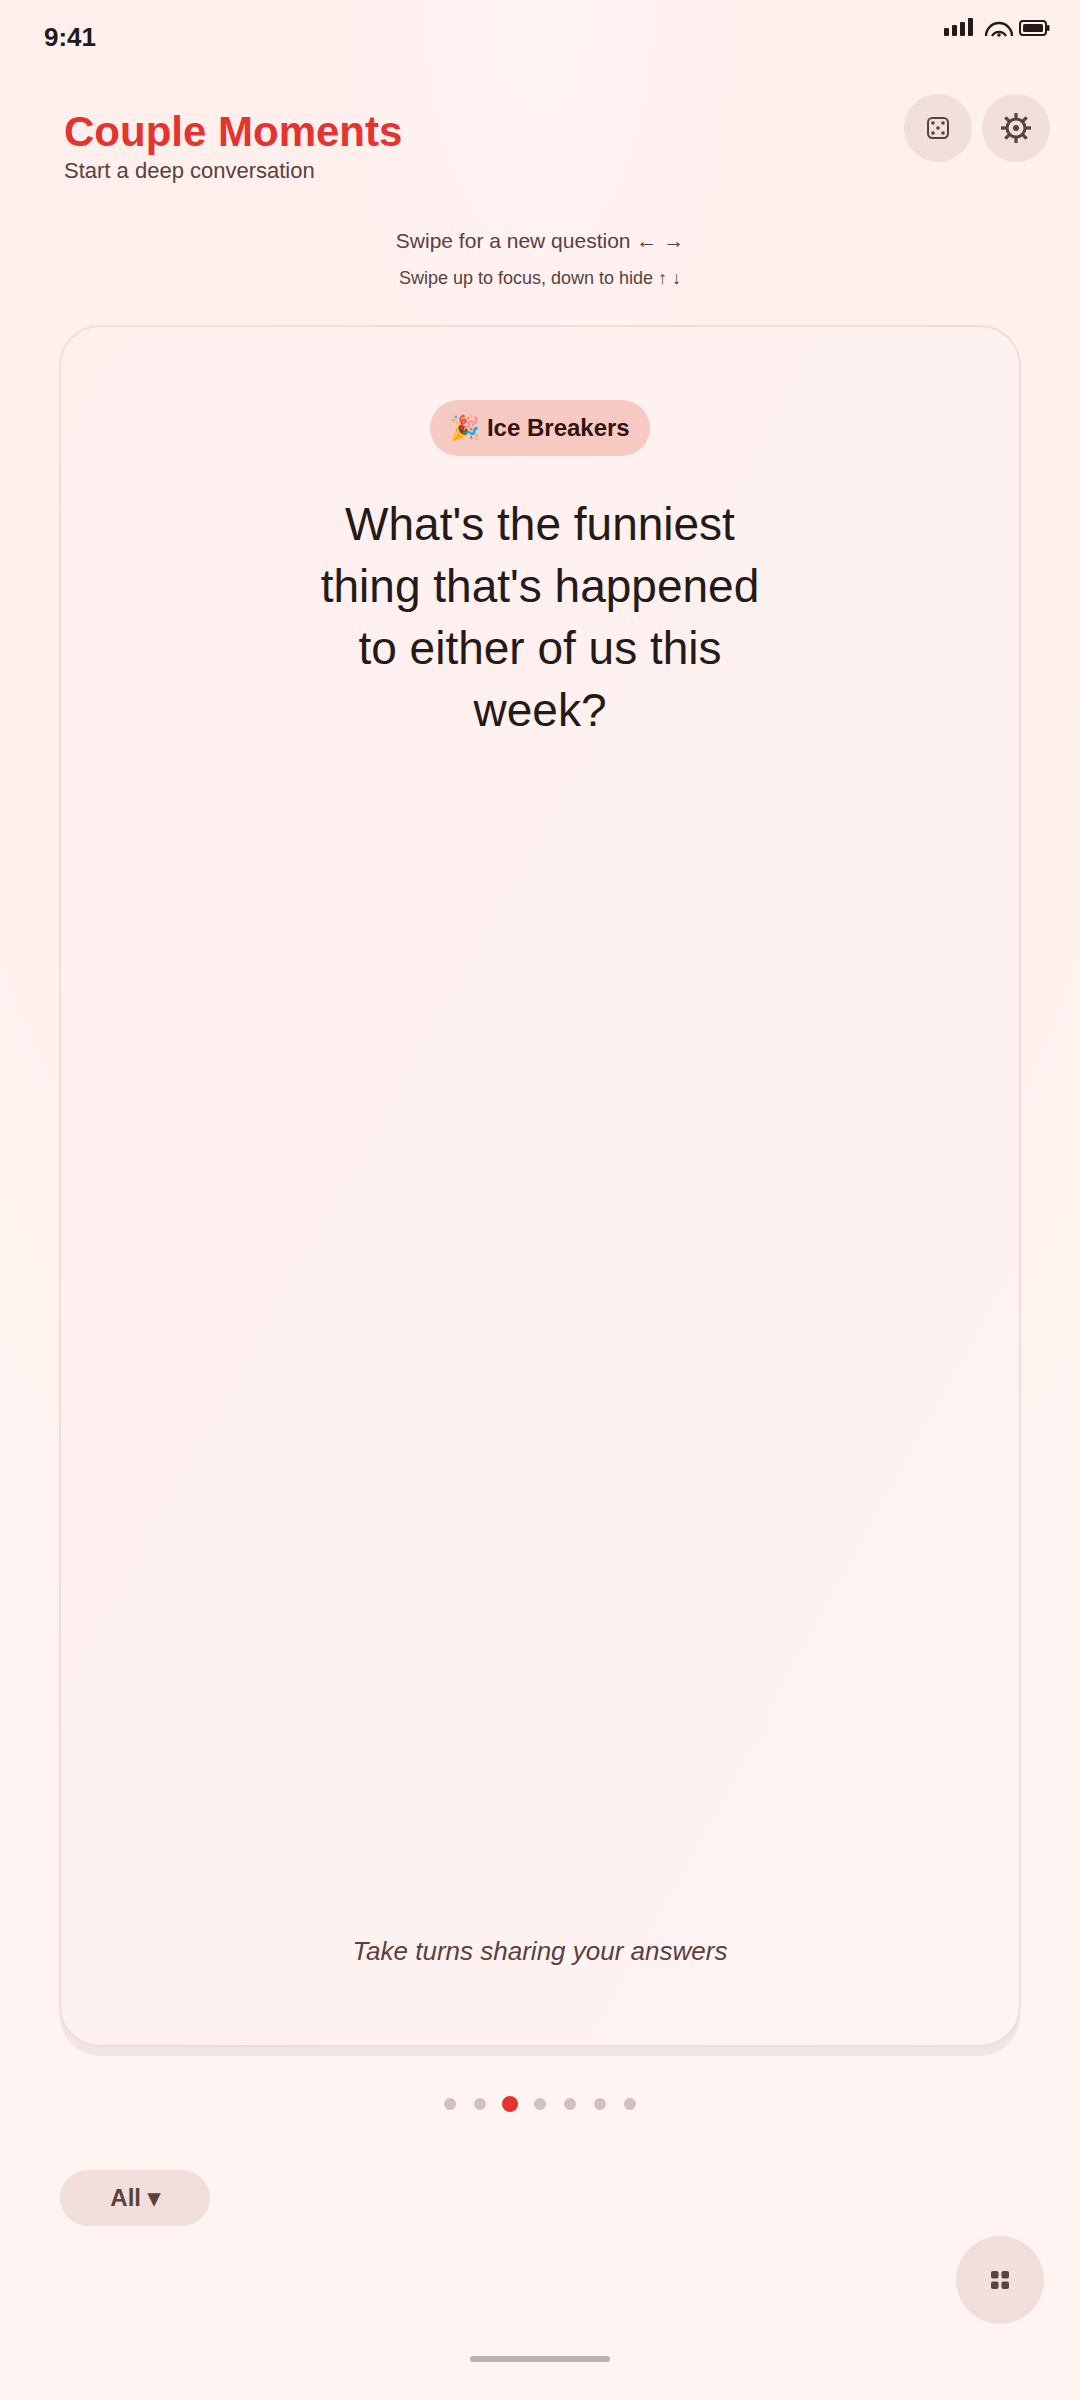
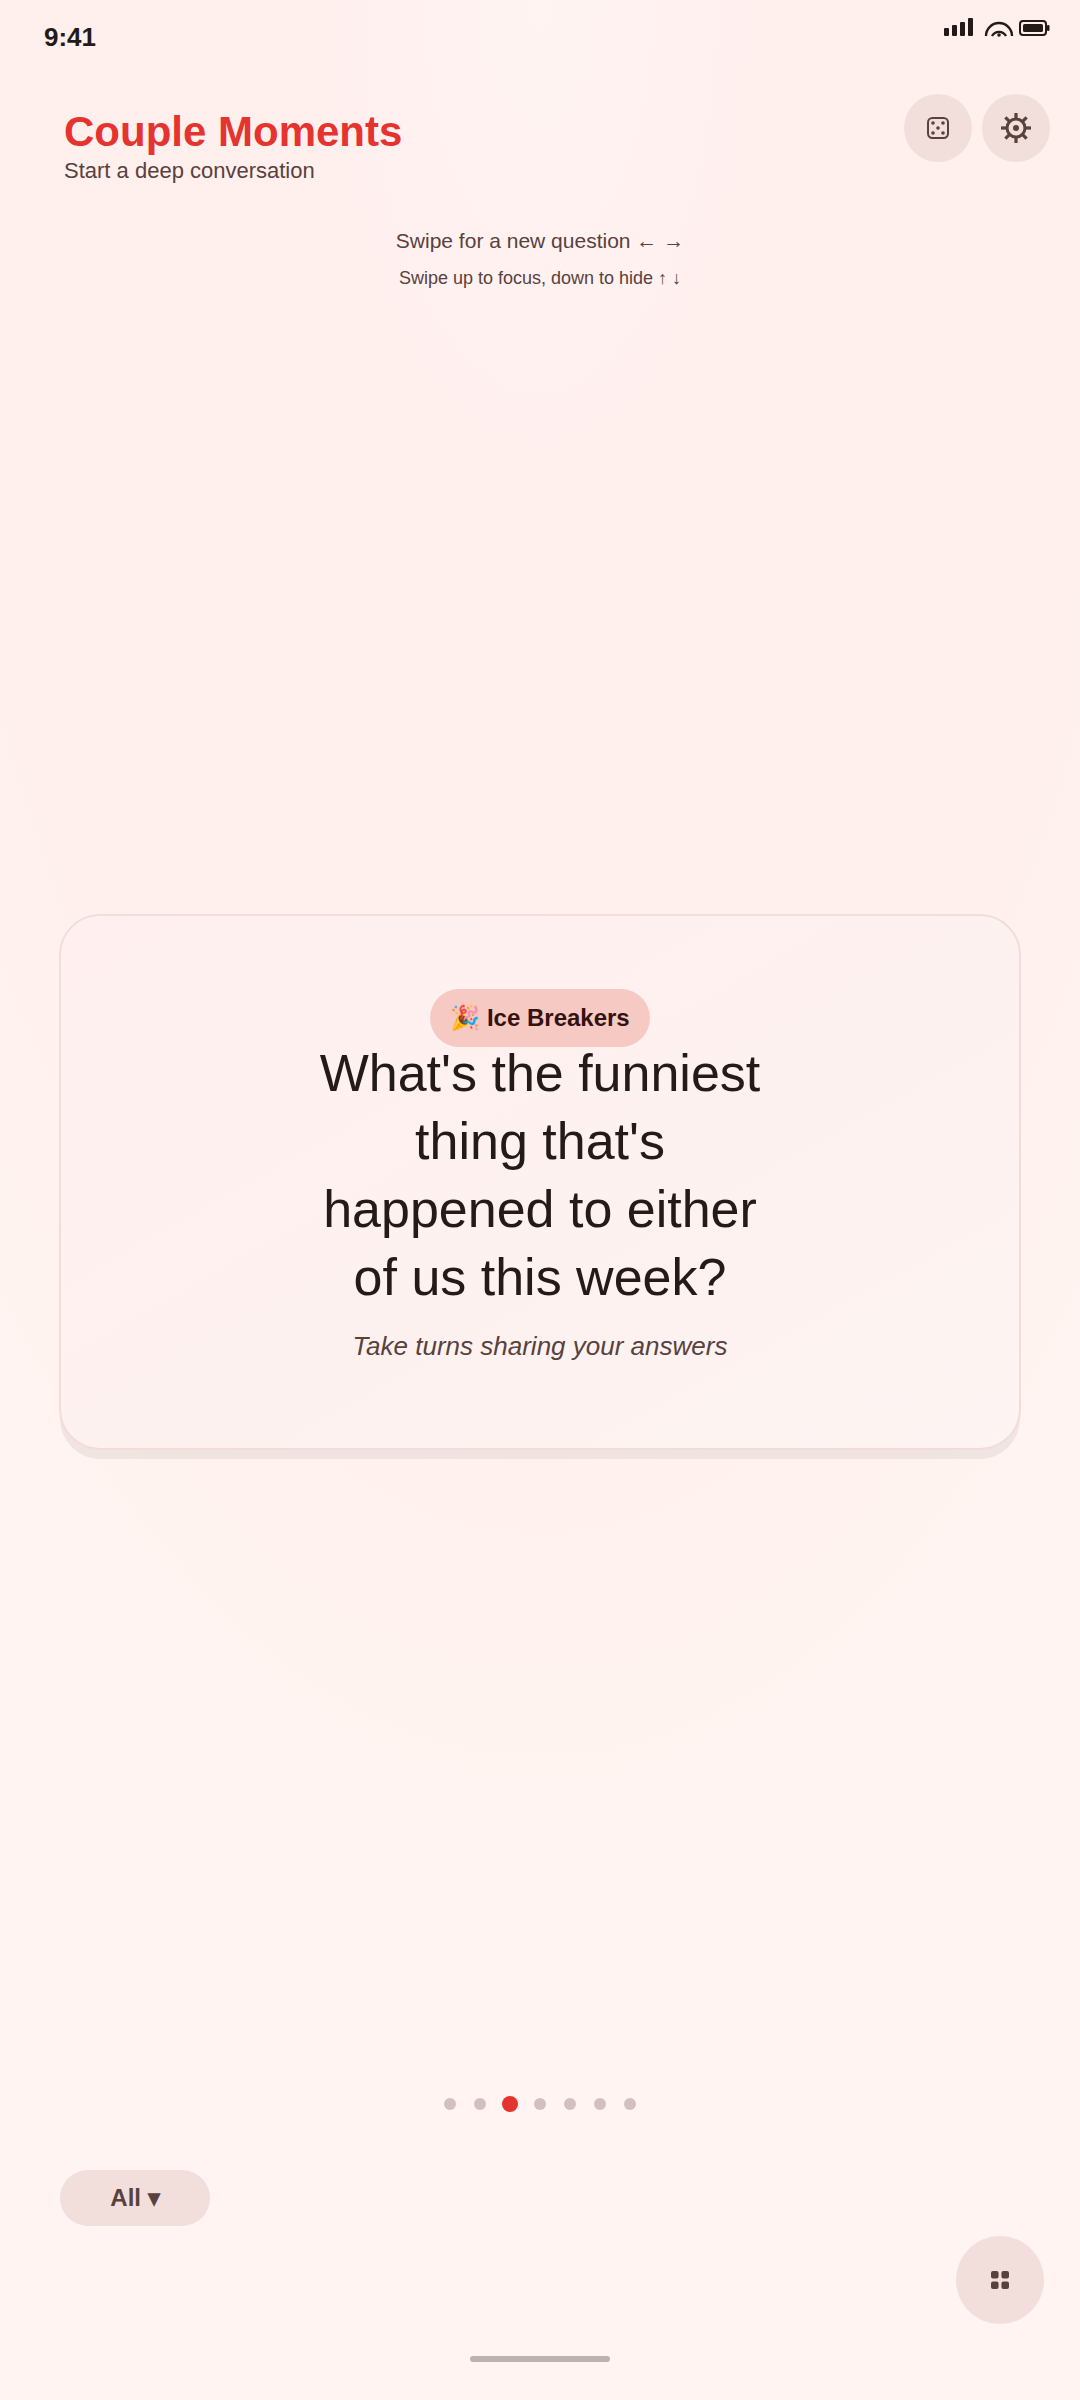
Fix Home/Grid screenshot proportions to match real Compose layout
Home: the real QuestionCard (feature/home HomeScreen.kt) only
fillMaxWidth()s, not fillMaxHeight() - the white card wraps its
content and floats centered in the space below the header, rather
than stretching to fill it. The previous version of this generator
stretched the card itself to fill the taller 1080x2400 canvas, leaving
the (fixed-size) question text as a small block lost in a mostly-empty
white card. Make the card content-sized again and center it in the
available region instead, so the text fills the card the way it does
in the real app, and let the (non-white, gradient) background show
above/below rather than an oversized blank card.

Grid: GridQuestionCard uses a fixed aspectRatio(0.75f) in the real
app - cards don't stretch taller on a bigger screen, more of them
become visible at once. Revert the artificially stretched card height
introduced by the previous resize and add a 4th row of real questions
instead, which is what the real LazyVerticalGrid would actually show
on a taller screen.

Claude-Session: https://claude.ai/code/session_01HsvnX2Jpbs3UZayHCfeFox

Changed region(s): [[0.3056, 0.4062, 0.7028, 0.5625], [0.3056, 0.1562, 0.7028, 0.3125]]

diff --git a/docs/playstore/assets/generate.py b/docs/playstore/assets/generate.py
@@ -338,8 +338,33 @@ W, H = 1080, 2400
 
 
 def gen_screenshot_home():
-    card_h = H - 680  # bottom-pinned nav below stays same distance from the bottom edge as at H=1920
+    # The real QuestionCard (feature/home HomeScreen.kt) only fillMaxWidth()s - it does NOT
+    # fillMaxHeight() - so the white card wraps its content and floats centered (Alignment.Center)
+    # inside the weight(1f) Box below the header, rather than stretching to fill it. Stretching the
+    # card itself (as an earlier version of this generator did) leaves a mostly-empty white card on
+    # a tall canvas; matching the real layout instead keeps the card content-sized and lets the
+    # (non-white, gradient) background show above/below it, which reads as intentional whitespace
+    # rather than a big blank card.
+    region_top = 300  # just below the swipe-hint text
     dots_cy = H - 296
+    region_bottom = dots_cy - 40  # just above the page-dots row
+
+    question = "What's the funniest thing that's happened to either of us this week?"
+    lines = wrap_text(question, 19)
+    font_size = 52
+    line_height = 68
+    pill_h = 58
+    gap_pill_question = 44
+    gap_question_caption = 60
+    pad_top, pad_bottom = 74, 94
+    content_extent = pill_h + gap_pill_question + (len(lines) - 1) * line_height + gap_question_caption
+    card_h = pad_top + content_extent + pad_bottom
+    card_top = (region_top + region_bottom) / 2 - card_h / 2
+
+    pill_y = card_top + pad_top
+    question_y = pill_y + pill_h + gap_pill_question
+    caption_y = question_y + (len(lines) - 1) * line_height + gap_question_caption
+
     dots = ""
     total, current = 7, 2
     for i in range(total):
@@ -349,7 +374,6 @@ def gen_screenshot_home():
         op = 1.0 if i == current else 0.4
         dots += f'<circle cx="{cx}" cy="{dots_cy}" r="{r}" fill="{fill}" opacity="{op}"/>'
 
-    question = "What's the funniest thing that's happened to either of us this week?"
     svg = f'''<svg xmlns="http://www.w3.org/2000/svg" width="{W}" height="{H}" viewBox="0 0 {W} {H}">
 <defs>
   <radialGradient id="bgGrad" cx="50%" cy="0%" r="75%">
@@ -365,15 +389,15 @@ def gen_screenshot_home():
 {status_bar(W)}
 {top_bar(W, subtitle=True)}
 
-<rect x="60" y="336" width="960" height="{card_h}" rx="40" fill="#000000" fill-opacity="0.06"/>
-<rect x="60" y="326" width="960" height="{card_h}" rx="40" fill="{WHITE}" stroke="{SURFACE_VARIANT}" stroke-width="2"/>
-<rect x="60" y="326" width="960" height="{card_h}" rx="40" fill="url(#cardTint)"/>
+<rect x="60" y="{card_top+10}" width="960" height="{card_h}" rx="40" fill="#000000" fill-opacity="0.06"/>
+<rect x="60" y="{card_top}" width="960" height="{card_h}" rx="40" fill="{WHITE}" stroke="{SURFACE_VARIANT}" stroke-width="2"/>
+<rect x="60" y="{card_top}" width="960" height="{card_h}" rx="40" fill="url(#cardTint)"/>
 
-{pill(430, 400, 220, 56, SECONDARY_CONTAINER, EMOJI_ICE + " Ice Breakers", ON_SECONDARY_CONTAINER, 24, "600", "middle")}
+{pill(430, pill_y, 220, pill_h, SECONDARY_CONTAINER, EMOJI_ICE + " Ice Breakers", ON_SECONDARY_CONTAINER, 24, "600", "middle")}
 
-{text_lines(wrap_text(question, 21), W/2, 540, 62, 46, ON_SURFACE, text_anchor="middle")}
+{text_lines(lines, W/2, question_y, line_height, font_size, ON_SURFACE, text_anchor="middle")}
 
-<text x="{W/2}" y="{H-440}" font-family="{FONT}" font-size="26" font-style="italic" fill="{ON_SURFACE_VARIANT}"
+<text x="{W/2}" y="{caption_y}" font-family="{FONT}" font-size="26" font-style="italic" fill="{ON_SURFACE_VARIANT}"
       text-anchor="middle">Take turns sharing your answers</text>
 
 {dots}
@@ -426,6 +450,9 @@ GRID_ITEMS = [
     (EMOJI_MEMORIES, "What do you remember about the moment you first realized you liked me?"),
     (EMOJI_VALUES, "How can I best support you when you're having a hard day?"),
     (EMOJI_FUTURE, "If we designed our dream home, what's one unusual feature you'd want?"),
+    (EMOJI_DAILY, "What's one small thing I did recently that made you smile?"),
+    (EMOJI_ICE, "If we could teleport anywhere right now, where would we go?"),
+    (EMOJI_MEMORIES, "What's a memory that always makes you laugh when you think about it?"),
 ]
 
 
@@ -434,9 +461,11 @@ def gen_screenshot_grid():
     gap = 22
     cols = 3
     colw = (W - 2 * margin - (cols - 1) * gap) / cols
-    # Grow the cards (rather than just the gap below them) to fill the taller canvas, keeping the
-    # same gap between the grid and the "All" pill below it as at H=1920.
-    cardh = (H - 698.7) / 3
+    # The real GridQuestionCard (feature/home HomeScreen.kt) uses a fixed aspectRatio(0.75f) -
+    # cards don't stretch taller on a bigger screen, more of them just become visible at once - so
+    # keep that ratio here too and show an extra row (GRID_ITEMS below) to fill the taller canvas.
+    cardh = colw / 0.75
+    rows = -(-len(GRID_ITEMS) // cols)  # ceil division
     cards = ""
     for i, (emoji, text) in enumerate(GRID_ITEMS):
         r, c = divmod(i, cols)
@@ -450,7 +479,7 @@ def gen_screenshot_grid():
 <text x="{x+colw-16}" y="{y+34}" font-family="{FONT}" font-size="22" text-anchor="end">{emoji}</text>
 {text_lines(lines, x+colw/2, start_y, 25, 19, ON_SURFACE, text_anchor="middle")}'''
 
-    clip_bottom = 300 + 3 * cardh + 2 * gap + 20
+    clip_bottom = 300 + rows * cardh + (rows - 1) * gap + 20
     svg = f'''<svg xmlns="http://www.w3.org/2000/svg" width="{W}" height="{H}" viewBox="0 0 {W} {H}">
 <defs>
   <linearGradient id="cardTint" x1="0" y1="0" x2="1" y2="1">
